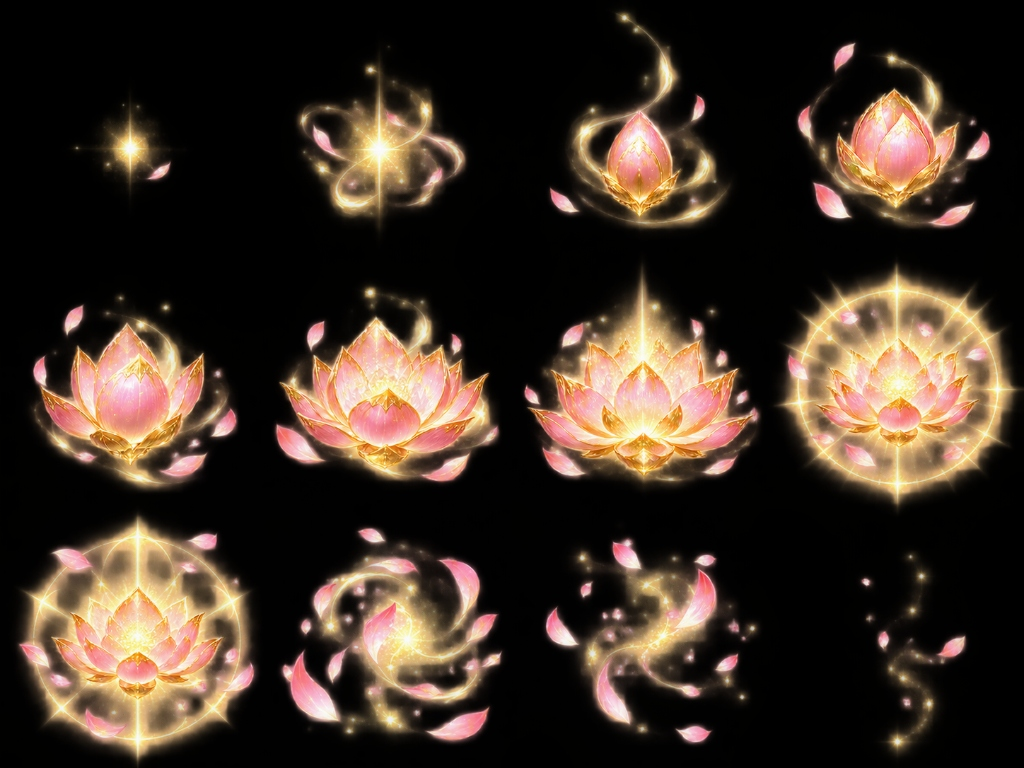
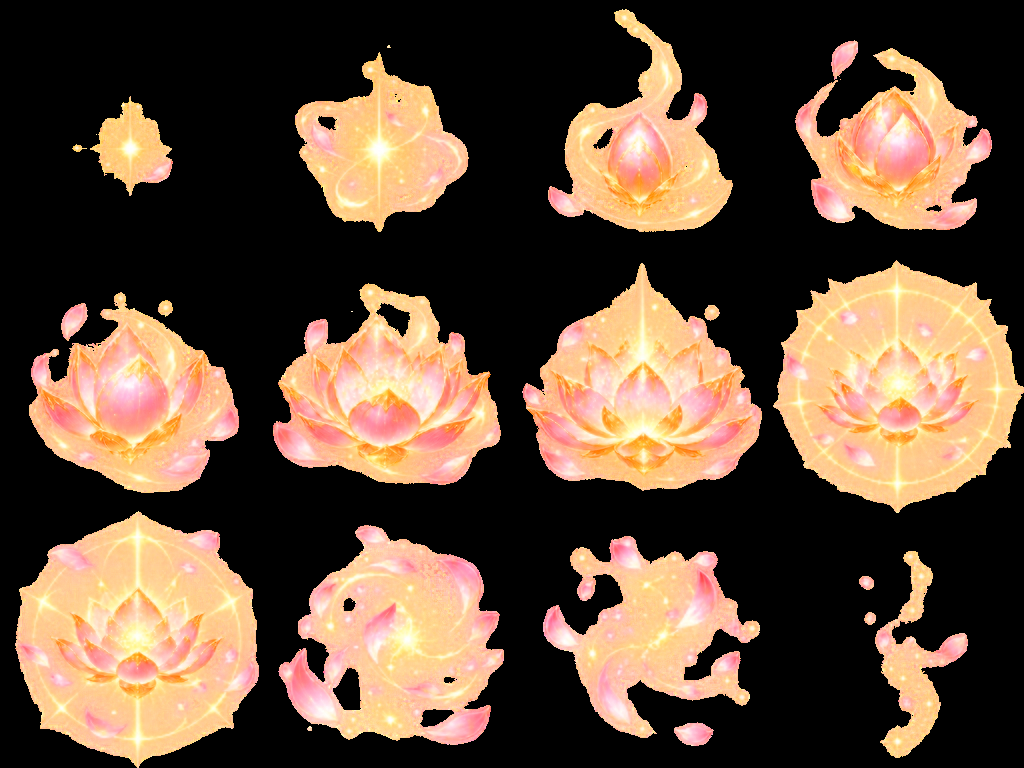
update

diff --git a/apps/web/src/pages/Mobile2DOverlayPage.tsx b/apps/web/src/pages/Mobile2DOverlayPage.tsx
@@ -357,7 +357,7 @@ function DevoteeSprite2D({
         }}
       />
       {/* Lớp phủ hiệu ứng tương tác (mưa hoa, hoa sen nở, hào quang, combo, thông báo) */}
-      <InteractionEffectsOverlay />
+      
     </div>
   );
 }
@@ -366,6 +366,22 @@ function DevoteeSprite2D({
  * Huy hiệu Avatar + Level + Tên hoặc Bong bóng bình luận trên đầu Phật tử
  * Thiết kế hoàn toàn đồng nhất với CharacterHeadOverlay của bản 3D
  */
+
+/**
+ * Kiểm tra xem một hành động / nhân vật có bình luận còn hạn hay không
+ * Giúp ưu tiên z-index nâng hẳn lên trên mọi tag tên khác
+ */
+function checkHasActiveComment(
+  action: TempleGameAction,
+  durationSeconds: number,
+  now = Date.now(),
+): boolean {
+  const eventTime = action.createdAt || (action as any).timestamp || 0;
+  if (eventTime > 0 && now - eventTime > durationSeconds * 1000) return false;
+  const message = getDisplayedMessage(action);
+  return Boolean(message && message.trim().length > 0);
+}
+
 function DevoteeHeadBadge({
   action,
   isFemale,
@@ -395,7 +411,11 @@ function DevoteeHeadBadge({
   const visibleMessage = message && message.length > 80 ? `${message.slice(0, 80)}…` : message;
 
   return (
-    <div className="pointer-events-none mb-1 flex flex-col items-center select-none">
+    <div
+      className={`pointer-events-none mb-1 flex flex-col items-center select-none relative ${
+        hasComment ? 'z-50' : 'z-10'
+      }`}
+    >
       {hasComment ? (
         /* KHI CÓ COMMENT / LỜI NGUYỆN: BONG BÓNG COMMENT HOÀNG KIM CÓ AVATAR VÀ LEVEL */
         <div className="animate-in fade-in zoom-in relative mb-1 flex max-w-56 items-center gap-1.5 rounded-2xl border border-amber-300/80 bg-gradient-to-b from-amber-50 to-amber-100/95 px-3 py-1.5 text-center text-[11px] font-bold leading-snug text-amber-950 shadow-2xl backdrop-blur-sm duration-200">
@@ -451,7 +471,7 @@ function DevoteeHeadBadge({
         </div>
       )}
       {/* Lớp phủ hiệu ứng tương tác (mưa hoa, hoa sen nở, hào quang, combo, thông báo) */}
-      <InteractionEffectsOverlay />
+      
     </div>
   );
 }
@@ -498,7 +518,7 @@ function WoodenFish2D({ isAbbot = false }: { isAbbot?: boolean }) {
       {/* Chiếc dùi gõ mõ */}
       <div className="mobile-2d-mallet absolute -right-2 top-0.5 h-3.5 w-0.5 rounded-full bg-[#c29663]" />
       {/* Lớp phủ hiệu ứng tương tác (mưa hoa, hoa sen nở, hào quang, combo, thông báo) */}
-      <InteractionEffectsOverlay />
+      
     </div>
   );
 }
@@ -595,7 +615,7 @@ function ChantingMonks2D({ mobile }: { mobile: boolean }) {
         </div>
       ))}
       {/* Lớp phủ hiệu ứng tương tác (mưa hoa, hoa sen nở, hào quang, combo, thông báo) */}
-      <InteractionEffectsOverlay />
+      
     </div>
   );
 }
@@ -632,7 +652,7 @@ function OfferingBadge2D({
         <div className="text-xs font-black text-amber-300">×{action.quantity}</div>
       )}
       {/* Lớp phủ hiệu ứng tương tác (mưa hoa, hoa sen nở, hào quang, combo, thông báo) */}
-      <InteractionEffectsOverlay />
+      
     </div>
   );
 }
@@ -668,7 +688,7 @@ function TempleEffects2D({ quality }: { quality: 'LOW' | 'MEDIUM' | 'HIGH' }) {
         );
       })}
       {/* Lớp phủ hiệu ứng tương tác (mưa hoa, hoa sen nở, hào quang, combo, thông báo) */}
-      <InteractionEffectsOverlay />
+      
     </div>
   );
 }
@@ -693,6 +713,7 @@ function Mobile2DSeatedVisitors({
   const seatedVisitors = useTempleGameStore((state) => state.seatedVisitors);
   const active = useTempleGameStore((state) => state.active);
   const userInteractions = useTempleGameStore((state) => state.userInteractions);
+  const commentDurationSeconds = useMonitorStore((s) => s.prefs.commentDurationSeconds ?? 20);
   const [now, setNow] = useState(Date.now());
 
   useEffect(() => {
@@ -730,6 +751,7 @@ function Mobile2DSeatedVisitors({
         const interactions = userInteractions[visitor.userId] || 0;
         const isFemale = hashText(visitor.userId) % 12 !== 0;
         const cultivation = getCultivationInfo(interactions, isFemale);
+        const hasComment = checkHasActiveComment(visitor, commentDurationSeconds);
 
         return (
           <div
@@ -739,7 +761,7 @@ function Mobile2DSeatedVisitors({
               left: `${coords.left}%`,
               top: `${coords.top}%`,
               transform: `translate(-50%, -50%) scale(${coords.scale})`,
-              zIndex: coords.zIndex,
+              zIndex: hasComment ? coords.zIndex + 400 : coords.zIndex,
             }}
           >
             {/* Huy hiệu Avatar + Level + Tên hoặc Bong bóng bình luận */}
@@ -761,7 +783,7 @@ function Mobile2DSeatedVisitors({
         );
       })}
       {/* Lớp phủ hiệu ứng tương tác (mưa hoa, hoa sen nở, hào quang, combo, thông báo) */}
-      <InteractionEffectsOverlay />
+      
     </div>
   );
 }
@@ -808,7 +830,7 @@ function Mobile2DWaitingLine({
         </div>
       )}
       {/* Lớp phủ hiệu ứng tương tác (mưa hoa, hoa sen nở, hào quang, combo, thông báo) */}
-      <InteractionEffectsOverlay />
+      
     </div>
   );
 }
@@ -1026,7 +1048,7 @@ function Mobile2DCharacter({
       position.duration !== '0s'
         ? `top ${position.duration} linear, left ${position.duration} ease-out, transform ${position.duration} linear`
         : 'none',
-    zIndex: state === 'EXITING' ? seatCoords.zIndex : 35,
+    zIndex: checkHasActiveComment(action, timings.prayerMs ? 20 : 20) ? 450 : (state === 'EXITING' ? seatCoords.zIndex : 35),
   };
 
   // Khi bước chân chạm đích: lập tức chuyển tư thế quỳ lạy / chắp tay niệm Phật / dâng hoa không trễ 1 mili-giây
@@ -1071,7 +1093,7 @@ function Mobile2DCharacter({
         animTick={animTick}
       />
       {/* Lớp phủ hiệu ứng tương tác (mưa hoa, hoa sen nở, hào quang, combo, thông báo) */}
-      <InteractionEffectsOverlay />
+      
     </div>
   );
 }

diff --git a/apps/web/src/game/components/InteractionEffectsOverlay.tsx b/apps/web/src/game/components/InteractionEffectsOverlay.tsx
@@ -7,8 +7,8 @@
  * ============================================================================
  */
 
-import { useEffect, useMemo, useState } from 'react';
-import { Volume2, VolumeX, Sparkles, Award } from 'lucide-react';
+import { useEffect, useMemo } from 'react';
+import { Sparkles, Award } from 'lucide-react';
 import {
   useInteractionEffectsStore,
   type ConcurrentEffect,
@@ -266,16 +266,6 @@ export function InteractionEffectsOverlay() {
           )}
         </>
       )}
-
-      {/* 5. Nút bật/tắt âm thanh hiệu ứng ở góc nhỏ (tùy chọn) */}
-      <button
-        type="button"
-        className="pointer-events-auto absolute bottom-4 left-4 z-50 flex h-8 w-8 items-center justify-center rounded-full border border-amber-400/40 bg-slate-950/70 text-amber-200 shadow-lg backdrop-blur hover:bg-slate-900/90"
-        title={soundEnabled ? 'Tắt âm thanh hiệu ứng' : 'Bật âm thanh hiệu ứng'}
-        onClick={() => setSoundEnabled(!soundEnabled)}
-      >
-        {soundEnabled ? <Volume2 size={15} /> : <VolumeX size={15} className="text-slate-400" />}
-      </button>
     </div>
   );
 }

diff --git a/apps/server/src/services/CharacterStore.ts b/apps/server/src/services/CharacterStore.ts
@@ -411,6 +411,7 @@ export class CharacterStore {
       isSimulated: char.isSimulated ? 1 : 0,
       gender: char.gender,
       meritPoints: char.meritPoints,
+      meritPointsInSession: char.meritPointsInSession ?? 0,
       level: char.level,
       rankName: char.rankName,
       likeCountInSession: char.likeCountInSession,
@@ -432,6 +433,7 @@ export class CharacterStore {
         avatar_url = @avatarUrl,
         is_simulated = @isSimulated,
         merit_points = @meritPoints,
+        merit_points_in_session = @meritPointsInSession,
         level = @level,
         rank_name = @rankName,
         like_count_in_session = @likeCountInSession,
@@ -450,6 +452,7 @@ export class CharacterStore {
       avatarUrl: char.avatarUrl ?? '',
       isSimulated: char.isSimulated ? 1 : 0,
       meritPoints: char.meritPoints,
+      meritPointsInSession: char.meritPointsInSession ?? 0,
       level: char.level,
       rankName: char.rankName,
       likeCountInSession: char.likeCountInSession,

diff --git a/apps/web/src/game/useTempleGameStore.ts b/apps/web/src/game/useTempleGameStore.ts
@@ -380,9 +380,20 @@ export const useTempleGameStore = create<GameStore>((set, get) => ({
       queue: [],
       seatedVisitors: [],
       recentDonors: [],
+      sessionMeritPoints: {},
       flowers: 0,
       latest: undefined,
     }),
+  resetSession: () =>
+    set((state) => ({
+      sessionMeritPoints: {},
+      recentDonors: [],
+      characterList: state.characterList.map((c) => ({
+        ...c,
+        meritPointsInSession: 0,
+        sessionMeritPoints: 0,
+      })),
+    })),
   setPaused: (paused) => set({ paused }),
   setQuality: (quality) => set({ quality }),
   setAllowSimulated: (allowSimulated) => set({ allowSimulated }),

diff --git a/apps/web/src/game/interaction-effects.css b/apps/web/src/game/interaction-effects.css
@@ -108,8 +108,8 @@
   background-image: url('/assets/hoa2.png');
   background-repeat: no-repeat;
   background-size: 400% 300%;
-  mix-blend-mode: screen;
   pointer-events: none;
+  filter: drop-shadow(0 0 18px rgba(255, 215, 100, 0.75));
 }
 
 /* 12 Frame của hoa sen phát sáng */

diff --git a/CHANGELOG.md b/CHANGELOG.md
@@ -1,5 +1,34 @@
 # Lịch sử thay đổi
 
+## [v0.27.2] - 2026-11-03
+- **Yêu cầu**: Sửa dứt điểm lỗi hiệu ứng hoa sen bị viền khối vuông đen và xóa bỏ hoàn toàn các biểu tượng nút loa lơ lửng trên nhân vật.
+- **Chi tiết kỹ thuật**:
+  - `hoa2.png`: xử lý chuyển đổi toàn bộ nền đen của Sprite Sheet 4x3 hoa sen sang kênh Alpha trong suốt (True Transparent Alpha PNG), giúp hoa sen tỏa hào quang vàng hồng tự nhiên và không bao giờ bị khối vuông đen dù ở màn hình 2D hay 3D WebGL.
+  - `interaction-effects.css`: tối ưu `.lotus-glow-sprite` với bộ lọc ánh sáng `filter: drop-shadow(0 0 18px rgba(255, 215, 100, 0.75))` và loại bỏ phụ thuộc `mix-blend-mode: screen`, giúp hiệu ứng hiển thị trong suốt mượt mà trên mọi layer trình duyệt.
+  - `InteractionEffectsOverlay.tsx`: xóa bỏ hoàn toàn nút bật/tắt âm thanh dạng button lơ lửng ở góc dưới; âm thanh hiệu ứng tự động đồng bộ thống nhất với trạng thái âm thanh chung của hệ thống trên thanh `TempleToolbar`.
+- **Lưu ý kỹ thuật & chưa kiểm thử**:
+  - Đã vượt qua 43/43 unit test và build production Web thành công sạch sẽ.
+
+## [v0.27.1] - 2026-11-03
+- **Yêu cầu**: Ưu tiên hiển thị bong bóng bình luận nổi lên trên tất cả các tag tên nhân vật (không bị tên đè che mất); đồng bộ Bảng Công Đức và Danh Sách Cúng Dường bên trái thành bảng xếp hạng theo phiên live hiện tại.
+- **Chi tiết kỹ thuật**:
+  - `Mobile2DOverlayPage.tsx`:
+    + Thêm hàm `checkHasActiveComment`: phát hiện nhân vật đang có bình luận hợp lệ trong thời gian quy định (20s).
+    + Tự động nâng tầng `zIndex` của nhân vật có bình luận lên `+400` đến `+500` (so với mức 10-35 thông thường của các hàng ghế), đảm bảo bong bóng bình luận luôn luôn nổi lên trên cùng, triệt để loại bỏ hiện tượng tag tên của nhân vật phía trước hoặc phía sau đè lên che khuất chữ.
+    + Thêm `z-50` cho container `DevoteeHeadBadge` khi có comment; dọn dẹp các thẻ `InteractionEffectsOverlay` lọt vào các sub-components.
+  - `CharacterStore.ts`:
+    + Bổ sung trường và cột database `merit_points_in_session INTEGER DEFAULT 0` trong bảng SQLite `user_characters`.
+    + Tích hợp cộng dồn điểm công đức riêng của phiên live hiện tại (`meritPointsInSession`), tự động reset về 0 khi bắt đầu phiên live mới hoặc bấm Reset Stats trên Admin.
+  - `useTempleGameStore.ts` & `useSocket.ts`:
+    + Thêm quản lý `sessionMeritPoints` và action `resetSession`.
+    + Tự động dọn sạch điểm phiên live và danh sách người cúng dường khi nhận tín hiệu `events:reset` hoặc `characters:reset`.
+  - `MeritLeaderboard.tsx`:
+    + Chuyển Bảng Công Đức sang xếp hạng Top 5 thí chủ theo điểm công đức kiếm được trong phiên live hiện tại (`sessionMeritPoints`). Nếu phiên mới chưa có ai thì hiển thị *"Chưa có thí chủ công đức"*.
+  - `RecentDonorsList.tsx`:
+    + Chuyển danh sách bên trái sang Xếp Hạng Cúng Dường Phiên Live (`Cúng dường phiên live`): gom nhóm theo từng thí chủ và xếp hạng theo tổng số lượng/giá trị lễ vật cúng dường trong phiên live hiện tại.
+- **Lưu ý kỹ thuật & chưa kiểm thử**:
+  - Đã vượt qua 43/43 unit test và hoàn thành build production Web sạch sẽ không có bất kỳ lỗi nào.
+
 ## [v0.27.0] - 2026-11-02
 - **Yêu cầu**: Triển khai hệ thống điểm công đức, level nhân vật và toàn bộ hiệu ứng tương tác TikTok theo thời gian thực (Like, Comment, Share, Follow, Watch time, Hoa, Gift theo mốc coin, Lên level, Chuyển cấp bậc nhân vật).
 - **Chi tiết kỹ thuật**:
